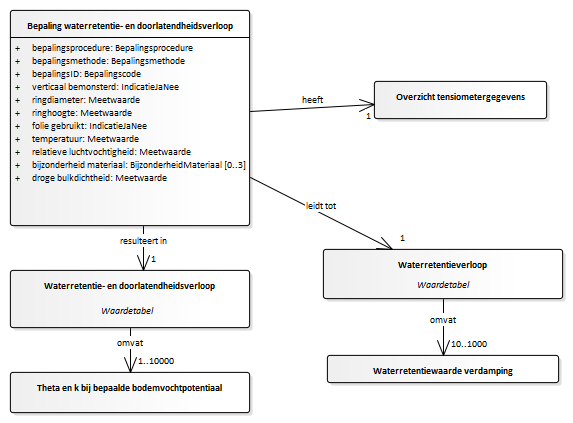
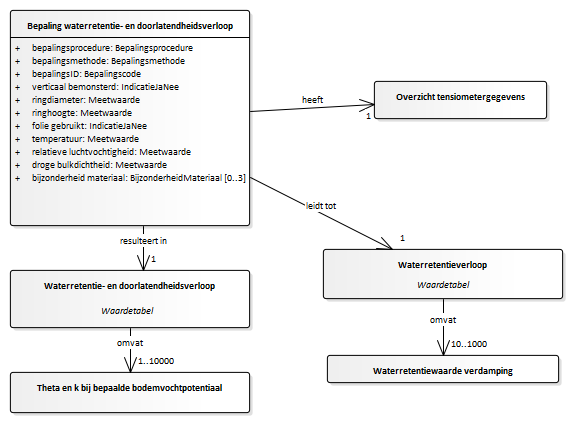
Conceptualmodel-BodemkundigwandonderzoekSFR-1.922versie2maart2020-3-20200302-20200304-102057

Changed region(s): [[0.0593, 0.3688, 0.445, 0.4303]]

diff --git a/data/SFR-cat.msword.html b/data/SFR-cat.msword.html
@@ -13,7 +13,7 @@
    <body>
       <p>Conceptual model/Bodemkundig wandonderzoek (SFR)/20200302</p>
       <p>Imvertor: 1.59.2</p>
-      <p>Model release: Conceptualmodel-BodemkundigwandonderzoekSFR-1.922versie2maart2020-3-20200302-20200304-100627</p>
+      <p>Model release: Conceptualmodel-BodemkundigwandonderzoekSFR-1.922versie2maart2020-3-20200302-20200304-102057</p>
       <hr>
       <section>
          <h1>Artikel 1 Definitie van registratieobject, entiteiten en attributen</h1>
@@ -19157,59 +19157,6 @@
                         </tbody>
                      </table>
                      
-                  </section><a class="anchor" id="detail_attribute_DomeinmodelBROSFR_Bepalingwaterretentieendoorlatendheidsverloop_bijzonderheidmateriaal"></a><section id="detail_attribute_DomeinmodelBROSFR_Bepalingwaterretentieendoorlatendheidsverloop_bijzonderheidmateriaal">
-                     <h4>  bijzonderheid materiaal</h4>
-                     
-                     <table style="width: 100%;">
-                        <colgroup style="width: 30%;"></colgroup>
-                        <colgroup style="width: 70%;"></colgroup>
-                        <tbody>
-                           <tr>
-                              <th>Type gegeven</th>
-                              <td>Attribuut van Bepaling waterretentie- en doorlatendheidsverloop</td>
-                           </tr>
-                           <tr>
-                              <th>Definitie</th>
-                              <td>
-                                 
-                                 <p>Een bijzonderheid die tijdens de bepaling is geconstateerd door het onderzochte materiaal
-                                    te bekijken, en die van invloed kan zijn op de resultaten van de bepaling.
-                                 </p>
-                                 
-                              </td>
-                           </tr>
-                           <tr>
-                              <th>Juridische status</th>
-                              <td>Authentiek</td>
-                           </tr>
-                           <tr>
-                              <th>Kardinaliteit</th>
-                              <td>0..3</td>
-                           </tr>
-                           <tr>
-                              <th>Domein</th>
-                              <td></td>
-                           </tr>
-                           <tr>
-                              <th>&nbsp;&nbsp;Naam</th>
-                              <td>BijzonderheidMateriaal</td>
-                           </tr>
-                           <tr>
-                              <th>Toelichting</th>
-                              <td>
-                                 
-                                 <p>Tijdens de uitvoering kunnen er bijzonderheden worden geconstateerd die extra informatie
-                                    over de aard van het onderzochte materiaal geven. In de huidige praktijk legt de uitvoerder
-                                    eventuele bijzonderheden altijd vast. In het verleden was dat niet altijd het geval
-                                    en voor historische gegevens kan aan het ontbreken van dit gegeven geen betekenis
-                                    worden toegekend. 
-                                 </p>
-                                 
-                              </td>
-                           </tr>
-                        </tbody>
-                     </table>
-                     
                   </section><a class="anchor" id="detail_attribute_DomeinmodelBROSFR_Bepalingwaterretentieendoorlatendheidsverloop_drogebulkdichtheid"></a><section id="detail_attribute_DomeinmodelBROSFR_Bepalingwaterretentieendoorlatendheidsverloop_drogebulkdichtheid">
                      <h4>  droge bulkdichtheid</h4>
                      
@@ -19298,6 +19245,59 @@
                                     kunnen worden afgeleid. De droge bulkdichtheid wordt tevens gebruik om aanvullende
                                     gravimetrisch bepaalde meetpunten (bijv. drukplaat, luchtdroog) aan deze meetreeks
                                     (bij onderdeel modellering) toe te voegen.
+                                 </p>
+                                 
+                              </td>
+                           </tr>
+                        </tbody>
+                     </table>
+                     
+                  </section><a class="anchor" id="detail_attribute_DomeinmodelBROSFR_Bepalingwaterretentieendoorlatendheidsverloop_bijzonderheidmateriaal"></a><section id="detail_attribute_DomeinmodelBROSFR_Bepalingwaterretentieendoorlatendheidsverloop_bijzonderheidmateriaal">
+                     <h4>  bijzonderheid materiaal</h4>
+                     
+                     <table style="width: 100%;">
+                        <colgroup style="width: 30%;"></colgroup>
+                        <colgroup style="width: 70%;"></colgroup>
+                        <tbody>
+                           <tr>
+                              <th>Type gegeven</th>
+                              <td>Attribuut van Bepaling waterretentie- en doorlatendheidsverloop</td>
+                           </tr>
+                           <tr>
+                              <th>Definitie</th>
+                              <td>
+                                 
+                                 <p>Een bijzonderheid die tijdens de bepaling is geconstateerd door het onderzochte materiaal
+                                    te bekijken, en die van invloed kan zijn op de resultaten van de bepaling.
+                                 </p>
+                                 
+                              </td>
+                           </tr>
+                           <tr>
+                              <th>Juridische status</th>
+                              <td>Authentiek</td>
+                           </tr>
+                           <tr>
+                              <th>Kardinaliteit</th>
+                              <td>0..3</td>
+                           </tr>
+                           <tr>
+                              <th>Domein</th>
+                              <td></td>
+                           </tr>
+                           <tr>
+                              <th>&nbsp;&nbsp;Naam</th>
+                              <td>BijzonderheidMateriaal</td>
+                           </tr>
+                           <tr>
+                              <th>Toelichting</th>
+                              <td>
+                                 
+                                 <p>Tijdens de uitvoering kunnen er bijzonderheden worden geconstateerd die extra informatie
+                                    over de aard van het onderzochte materiaal geven. In de huidige praktijk legt de uitvoerder
+                                    eventuele bijzonderheden altijd vast. In het verleden was dat niet altijd het geval
+                                    en voor historische gegevens kan aan het ontbreken van dit gegeven geen betekenis
+                                    worden toegekend. 
                                  </p>
                                  
                               </td>
@@ -19501,10 +19501,10 @@
                               <th>Toelichting</th>
                               <td>
                                  
-                                 <p>Standaard worden bij WEnR de tensiometers van de zijkant in het proefstuk gestoken
-                                    tot aan het midden van de ring. In principe zijn alle gebruikte tensiometers van hetzelfde
-                                    type en hebben daaarmee en standaard lengte die maar eenmalig vastgelegd hoeft te
-                                    worden.
+                                 <p>Standaard worden bij Wageningen Environmental Research de tensiometers van de zijkant
+                                    in het proefstuk gestoken tot aan het midden van de ring. In principe zijn alle gebruikte
+                                    tensiometers van hetzelfde type en hebben daaarmee en standaard lengte die maar eenmalig
+                                    vastgelegd hoeft te worden.
                                  </p>
                                  
                               </td>
@@ -20334,8 +20334,8 @@
                            <th>Toelichting</th>
                            <td>
                               
-                              <p>De resultaten van de waardetabel na bewerking van de resultaten van het Waterretentieverloop
-                                 met de IPM - methode. 
+                              <p>De resultaten verwerking van de resultaten van het Waterretentieverloop met de Prefit
+                                 en IPM - methode. 
                               </p>
                               
                            </td>
